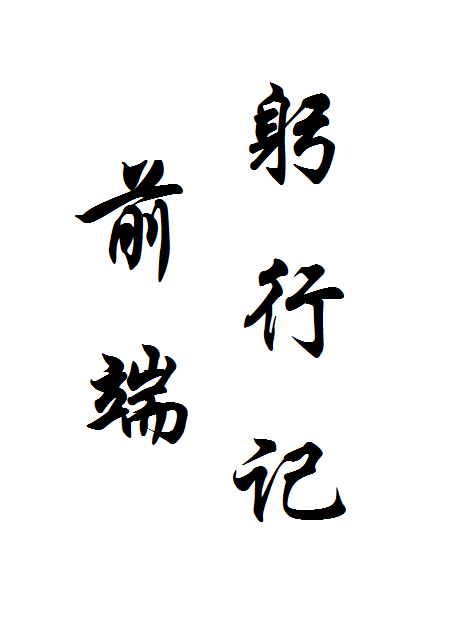
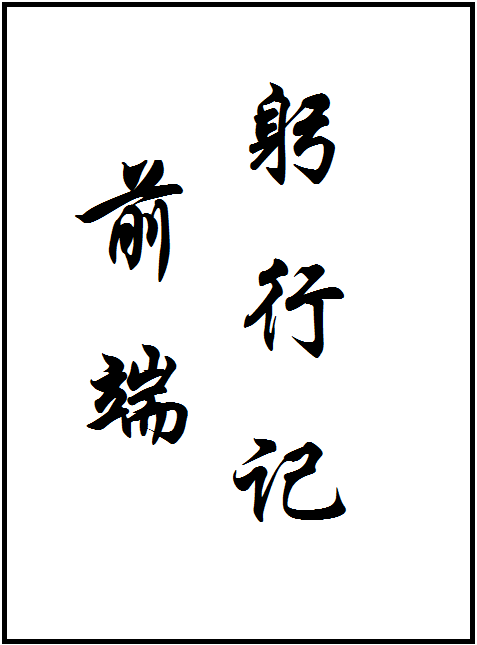
前端躬行记

diff --git a/README.md b/README.md
@@ -55,7 +55,7 @@
 ## 前端躬行记
 古语云：“纸上得来终觉浅，绝知此事要躬行”。的确，不管看了多少本书，如果自己不实践，那么就很难领会其中的精髓。为此，开辟了《[前端躬行记](https://www.kancloud.cn/pwstrick/fe-questions/1094971)》系列，包括ES6、React、Vue.js、TypeScript和利器等，将相关知识系统的记录下来，以便自己翻阅，也希望能帮助到广大网友。
 
-<img src="https://github.com/pwstrick/daily/raw/master/assets/img/cover/fe-questions.png" width="200" style="border: 2px solid #000" />
+<img src="https://github.com/pwstrick/daily/raw/master/assets/img/cover/fe-questions.png" width="200" />
 
 ## 欢迎大家踊跃分享
 如果你也有前端面试题，或者有好的与面试相关的文章，都可以向我投稿。
